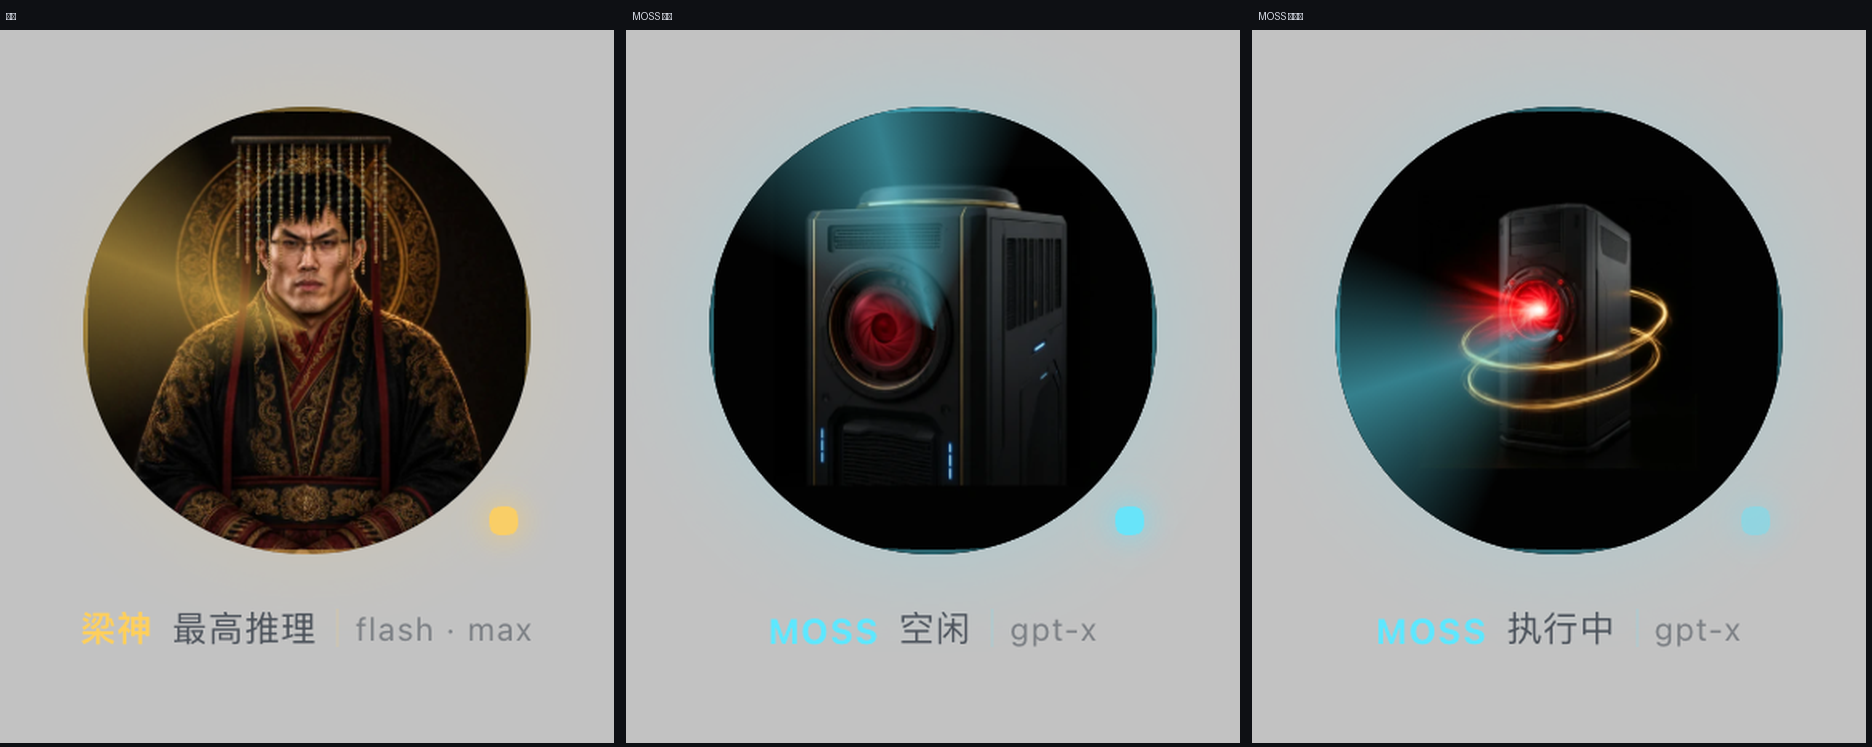
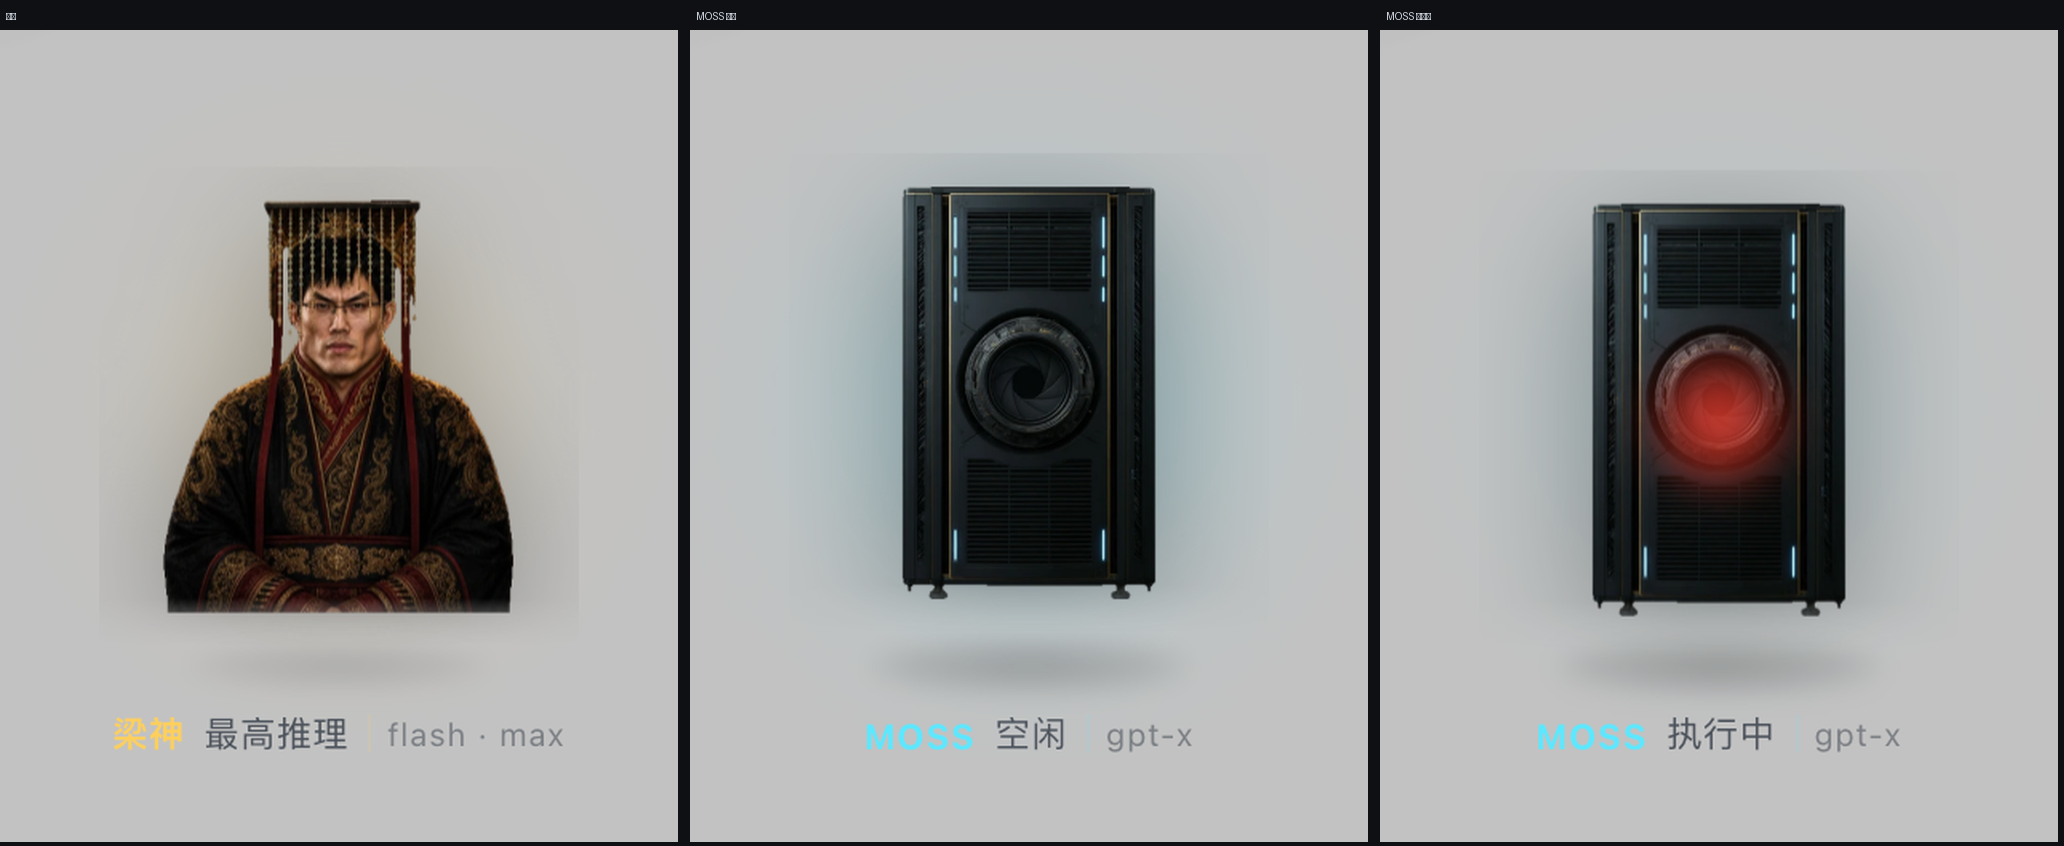
refactor: 真透明抠图 + 干净素材 + 效果全在 CSS
- 去掉圆形头像舱：用户要的是透明抠图，不是圆形底框
- rembg（BRIA RMBG）抠出梁神四档与 MOSS 的透明底，互不描边
- MOSS 重新生成为无特效干净机体（镜头暗、无光晕无光环），执行态红光由 CSS 叠在镜头上，图片本身不带效果
- 底部圆环改为柔和地面投影；立绘底边做渐隐，消除硬边
- 动效：立绘浮动 4.6s/1.8s、光环呼吸、投影呼吸、MOSS 红光脉冲、换形闪白+溶解

diff --git a/client/client.js b/client/client.js
@@ -37,7 +37,7 @@ window.__ModuleLoader__.load({
     var ROOT_ID = 'dsh-pet-liang-root'
     var POS_KEY = 'dsh-pet-liang:pos'
     /* 素材改了名字没变，加一个版本号强制浏览器重新取（宿主给的是 immutable 缓存） */
-    var ASSET_V = '20'
+    var ASSET_V = '24'
     var STYLE_ID = 'dsh-pet-liang-style'
 
     /** 四档推理等级对应的称呼与氛围色。 */
@@ -219,62 +219,63 @@ window.__ModuleLoader__.load({
     /* ────────────────────────── 样式 ────────────────────────── */
 
     var CSS = [
-      '#' + ROOT_ID + '{position:fixed;right:20px;bottom:104px;width:152px;z-index:2147483000;',
+      '#' + ROOT_ID + '{position:fixed;right:22px;bottom:104px;width:176px;z-index:2147483000;',
       'font-family:ui-sans-serif,system-ui,"Segoe UI",sans-serif;color:#e8edf5;',
       'user-select:none;-webkit-user-select:none;pointer-events:auto;touch-action:none;}',
       'body:not([data-ds-dark-theme]) #' + ROOT_ID + '{color:#1b2430;}',
 
-      '#' + ROOT_ID + ' .orb{position:relative;width:152px;height:152px;cursor:grab;}',
-      '#' + ROOT_ID + '.is-dragging .orb{cursor:grabbing;}',
+      '#' + ROOT_ID + ' .stage{position:relative;width:176px;height:196px;cursor:grab;',
+      'display:flex;align-items:flex-end;justify-content:center;}',
+      '#' + ROOT_ID + '.is-dragging .stage{cursor:grabbing;}',
 
-      '#' + ROOT_ID + ' .orb-glow{position:absolute;inset:-16px;border-radius:50%;pointer-events:none;z-index:0;',
-      'background:radial-gradient(circle at 50% 50%,color-mix(in srgb,var(--dpl-aura) 55%,transparent) 0%,transparent 68%);',
-      'filter:blur(10px);opacity:.35;animation:orb-glow 4.6s ease-in-out infinite;}',
-      '#' + ROOT_ID + '[data-working="1"] .orb-glow{opacity:.72;animation-duration:1.8s;}',
+      '#' + ROOT_ID + ' .aura{position:absolute;left:50%;bottom:18px;width:190px;height:150px;z-index:0;',
+      'transform:translateX(-50%);border-radius:50%;filter:blur(22px);opacity:.18;',
+      'background:radial-gradient(circle at 50% 50%,var(--dpl-aura) 0%,transparent 68%);',
+      'animation:pet-breathe 4.6s ease-in-out infinite;}',
+      'body[data-ds-dark-theme] #' + ROOT_ID + ' .aura{opacity:.5;}',
+      '#' + ROOT_ID + '[data-working="1"] .aura{animation-duration:1.8s;}',
 
-      '#' + ROOT_ID + ' .orb-ring{position:absolute;inset:6px;border-radius:50%;z-index:2;pointer-events:none;overflow:hidden;',
-      '-webkit-clip-path:circle(50% at 50% 50%);clip-path:circle(50% at 50% 50%);',
-      'box-shadow:inset 0 0 0 1.5px color-mix(in srgb,var(--dpl-aura) 42%,transparent);}',
-      '#' + ROOT_ID + ' .orb-ring::before{content:"";position:absolute;inset:-60%;',
-      'background:conic-gradient(from 0deg,transparent 0deg,transparent 250deg,',
-      'color-mix(in srgb,var(--dpl-aura) 55%,transparent) 300deg,transparent 340deg,transparent 360deg);',
-      'animation:orb-spin 5.2s linear infinite;}',
-      '#' + ROOT_ID + '[data-working="1"] .orb-ring::before{animation-duration:1.4s;}',
+      '#' + ROOT_ID + ' .ring{position:absolute;left:50%;bottom:4px;width:92px;height:14px;z-index:1;',
+      'transform:translateX(-50%);border-radius:50%;pointer-events:none;opacity:.55;',
+      'background:radial-gradient(ellipse at center,rgba(0,0,0,.34) 0%,rgba(0,0,0,.16) 55%,transparent 78%);',
+      'filter:blur(3px);animation:pet-ring 4.6s ease-in-out infinite;}',
+      'body[data-ds-dark-theme] #' + ROOT_ID + ' .ring{opacity:.75;',
+      'background:radial-gradient(ellipse at center,color-mix(in srgb,var(--dpl-aura) 45%,rgba(0,0,0,.5)) 0%,transparent 72%);}',
+      '#' + ROOT_ID + '[data-working="1"] .ring{animation-duration:1.6s;}',
 
-      '#' + ROOT_ID + ' .orb-face{position:absolute;inset:6px;border-radius:50%;overflow:hidden;z-index:1;',
-      '-webkit-clip-path:circle(50% at 50% 50%);clip-path:circle(50% at 50% 50%);',
-      'background:radial-gradient(circle at 50% 30%,#1d2633 0%,#0a0d12 78%);',
-      'box-shadow:inset 0 0 22px rgba(0,0,0,.75),0 8px 22px rgba(0,0,0,.28);}',
-      'body:not([data-ds-dark-theme]) #' + ROOT_ID + ' .orb-face{background:radial-gradient(circle at 50% 30%,#f4f7fb 0%,#dfe6ef 80%);',
-      'box-shadow:inset 0 0 18px rgba(0,0,0,.12),0 8px 20px rgba(0,0,0,.15);}',
+      '#' + ROOT_ID + ' .body{position:relative;z-index:2;display:flex;align-items:flex-end;justify-content:center;}',
+      '#' + ROOT_ID + ' .figure{position:relative;z-index:2;max-height:188px;max-width:150px;width:auto;',
+      'margin-bottom:16px;filter:drop-shadow(0 10px 20px rgba(0,0,0,.30));',
+      '-webkit-mask-image:linear-gradient(to bottom,#000 90%,transparent 100%);',
+      'mask-image:linear-gradient(to bottom,#000 90%,transparent 100%);',
+      'animation:pet-float 4.6s ease-in-out infinite;}',
+      '#' + ROOT_ID + '[data-working="1"] .figure{animation-duration:1.8s;}',
 
-            '#' + ROOT_ID + '[data-character="moss"] .orb-face{background:#07090d;}',
-      'body:not([data-ds-dark-theme]) #' + ROOT_ID + '[data-character="moss"] .orb-face{background:#07090d;}',
-'#' + ROOT_ID + ' .orb-img{width:100%;height:100%;object-fit:cover;object-position:50% 18%;border-radius:50%;',
-      '#' + ROOT_ID + '[data-character="moss"] .orb-img{object-position:50% 50%;}',
-      'animation:orb-breathe 4.6s ease-in-out infinite;transform-origin:50% 60%;}',
-      '#' + ROOT_ID + '[data-working="1"] .orb-img{animation-duration:1.7s;}',
+      /* MOSS 工作态：红光由 CSS 叠在镜头上，图片本身是干净的 */
+      '#' + ROOT_ID + ' .core{position:absolute;z-index:3;left:50%;top:47%;width:46px;height:46px;',
+      'transform:translate(-50%,-50%);border-radius:50%;pointer-events:none;opacity:0;',
+      'background:radial-gradient(circle,rgba(255,64,48,.95) 0%,rgba(255,64,48,.45) 42%,transparent 72%);',
+      'filter:blur(5px);transition:opacity .5s ease;}',
+      '#' + ROOT_ID + '[data-character="moss"][data-working="1"] .core{opacity:.95;animation:pet-core 1.5s ease-in-out infinite;}',
+      '#' + ROOT_ID + '[data-character="liang"] .core{display:none;}',
 
-      '#' + ROOT_ID + ' .orb-dot{position:absolute;right:10px;bottom:12px;width:9px;height:9px;border-radius:50%;z-index:3;',
-      'background:var(--dpl-aura);box-shadow:0 0 10px var(--dpl-aura);opacity:.9;}',
-      '#' + ROOT_ID + '[data-working="1"] .orb-dot{animation:orb-blink 1.1s ease-in-out infinite;}',
+      '#' + ROOT_ID + '.is-switching .figure{animation:pet-swap .72s ease-in-out;}',
+      '#' + ROOT_ID + '.is-switching .aura{animation:pet-flash .72s ease-in-out;}',
 
-      '#' + ROOT_ID + ' .hud{display:flex;align-items:center;justify-content:center;gap:6px;margin-top:9px;font-size:11px;letter-spacing:.03em;}',
+      '#' + ROOT_ID + ' .hud{display:flex;align-items:center;justify-content:center;gap:6px;margin-top:2px;',
+      'font-size:11px;letter-spacing:.03em;}',
       '#' + ROOT_ID + ' .name{font-weight:700;color:var(--dpl-aura);}',
       '#' + ROOT_ID + ' .state{opacity:.7;}',
       '#' + ROOT_ID + ' .model{max-width:86px;overflow:hidden;text-overflow:ellipsis;white-space:nowrap;opacity:.42;font-size:10px;',
       'padding-left:5px;border-left:1px solid color-mix(in srgb,var(--dpl-aura) 30%,transparent);}',
       '#' + ROOT_ID + ' .model[data-unknown="1"]{opacity:.65;color:#c98b3a;}',
 
-      '#' + ROOT_ID + '.is-switching .orb-img{animation:orb-swap .72s ease-in-out;}',
-      '#' + ROOT_ID + '.is-switching .orb-ring{animation:orb-flash .72s ease-in-out;}',
-
-      '@keyframes orb-breathe{0%,100%{transform:scale(1) translateY(0)}50%{transform:scale(1.035) translateY(-2px)}}',
-      '@keyframes orb-glow{0%,100%{opacity:.3;transform:scale(1)}50%{opacity:.62;transform:scale(1.06)}}',
-      '@keyframes orb-spin{to{transform:rotate(360deg)}}',
-      '@keyframes orb-blink{0%,100%{opacity:.35}50%{opacity:1}}',
-      '@keyframes orb-swap{0%{opacity:1;filter:blur(0)}40%{opacity:.15;filter:blur(4px)}70%{opacity:0;filter:blur(8px)}100%{opacity:1;filter:blur(0)}}',
-      '@keyframes orb-flash{0%,100%{filter:brightness(1)}45%{filter:brightness(2.2)}}',
+      '@keyframes pet-float{0%,100%{transform:translateY(0)}50%{transform:translateY(-7px)}}',
+      '@keyframes pet-breathe{0%,100%{opacity:.18;transform:translateX(-50%) scale(1)}50%{opacity:.42;transform:translateX(-50%) scale(1.07)}}',
+      '@keyframes pet-ring{0%,100%{transform:translateX(-50%) scaleX(1) scaleY(1);opacity:.28}50%{transform:translateX(-50%) scaleX(1.12) scaleY(1.3);opacity:.7}}',
+      '@keyframes pet-core{0%,100%{opacity:.55;transform:translate(-50%,-50%) scale(.92)}50%{opacity:1;transform:translate(-50%,-50%) scale(1.12)}}',
+      '@keyframes pet-swap{0%{opacity:1;filter:blur(0)}38%{opacity:.12;filter:blur(5px)}70%{opacity:0;filter:blur(9px)}100%{opacity:1;filter:blur(0)}}',
+      '@keyframes pet-flash{0%,100%{opacity:.2}45%{opacity:.95;filter:blur(30px)}}',
     ].join('')
 
     function ensureStyle() {
@@ -405,22 +406,22 @@ window.__ModuleLoader__.load({
       root.setAttribute('data-character', 'moss')
       root.setAttribute('data-working', '0')
 
-      var orb = el('div', 'orb')
-      var glow = el('div', 'orb-glow')
-      var ring = el('div', 'orb-ring')
-      var face = el('div', 'orb-face')
-      var figure = el('img', 'orb-img')
+      var stage = el('div', 'stage')
+      var aura = el('div', 'aura')
+      var ring = el('div', 'ring')
+      var core = el('div', 'core')
+      var body = el('div', 'body')
+      var figure = el('img', 'figure')
       figure.src = assetUrl('moss-idle.webp')
       figure.alt = ''
       figure.draggable = false
       figure.setAttribute('data-asset', 'moss-idle.webp')
       figure.setAttribute('data-char', 'moss')
-      var dot = el('span', 'orb-dot')
-      face.appendChild(figure)
-      orb.appendChild(glow)
-      orb.appendChild(ring)
-      orb.appendChild(face)
-      orb.appendChild(dot)
+      body.appendChild(figure)
+      body.appendChild(core)
+      stage.appendChild(aura)
+      stage.appendChild(ring)
+      stage.appendChild(body)
 
       var hud = el('div', 'hud')
       var nameNode = el('span', 'name', 'MOSS')
@@ -430,7 +431,7 @@ window.__ModuleLoader__.load({
       hud.appendChild(stateNode)
       hud.appendChild(modelNode)
 
-      root.appendChild(orb)
+      root.appendChild(stage)
       root.appendChild(hud)
 
       /* 点击判定放在 root 上：pointer capture 会把 click 重定向到捕获元素，
@@ -481,11 +482,11 @@ window.__ModuleLoader__.load({
         (state.provider ? ' · ' + state.provider : '') +
         (state.character === 'liang' ? ' · ' + state.title : ' · MOSS')
 
-      var figure = overlay.querySelector('.orb-img')
+      var figure = overlay.querySelector('.figure')
       var nameNode = overlay.querySelector('.name')
       var stateNode = overlay.querySelector('.state')
       var modelNode = overlay.querySelector('.model')
-      var aura = overlay.querySelector('.orb-glow')
+      var aura = overlay.querySelector('.aura')
 
       if (nameNode) nameNode.textContent = state.title
       if (stateNode) stateNode.textContent = state.subtitle
